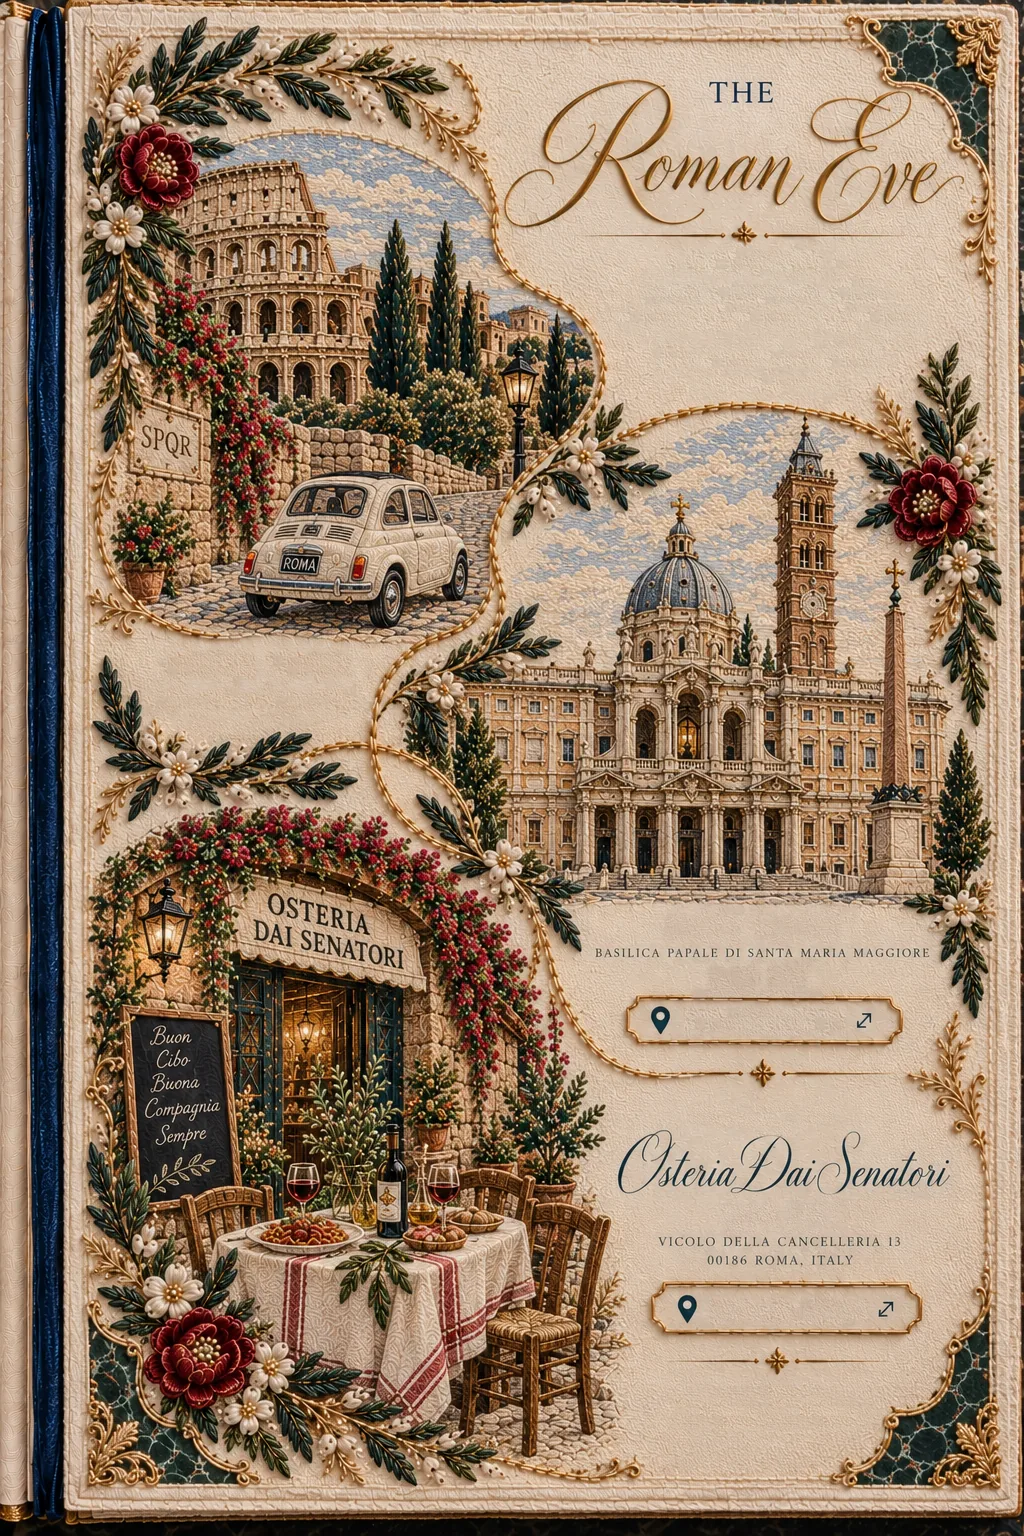
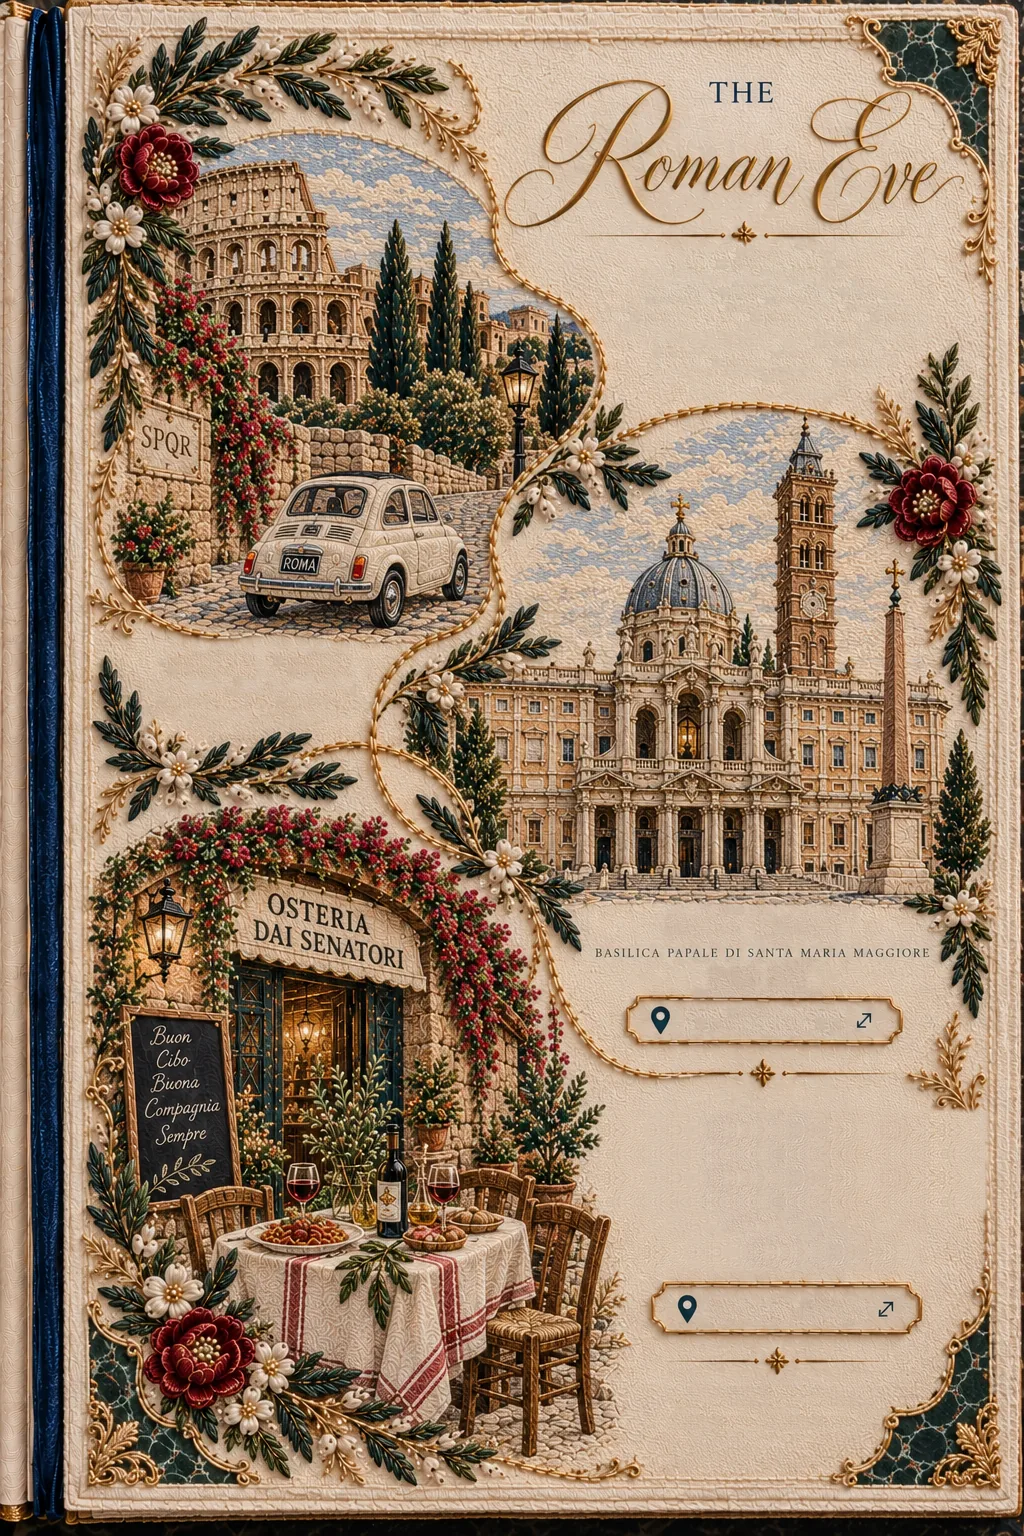
Thursday dinner moves to Est Artigiani del Gusto
The venue name and address on the Roman Eve page are now live text rather than
baked into the artwork, so a change of restaurant no longer needs new art. The
RSVP list entry and the map link follow. The name on the painted shopfront sign
is part of the illustration and still reads the old venue.

Changed region(s): [[0.5938, 0.7188, 0.9688, 0.7812]]

diff --git a/invite/index.html b/invite/index.html
@@ -229,6 +229,9 @@ body.locked{height:100svh;overflow:hidden}
 .ov.p05 .time1{top:62.8%;left:73.8%;font-size:calc(var(--fw)*.0264);letter-spacing:.1em;padding-left:.1em;color:#242a28}
 .ov.p05 .btn1{top:65.7%;left:75.3%;font-size:calc(var(--fw)*.0195);color:#32332f}
 .ov.p05 .dinner{top:71.8%;left:74.5%;font-size:calc(var(--fw)*.0264);letter-spacing:.1em;padding-left:.1em}
+/* The restaurant and its address are live text, so the venue can change without new artwork. */
+.ov.p05 .venue{top:73.0%;left:76.9%;font-family:'Pinyon Script',cursive;font-style:normal;font-weight:400;font-size:calc(var(--fw)*.0425);color:#22323a}
+.ov.p05 .addr{top:80.3%;left:76.1%;font-size:calc(var(--fw)*.0127);letter-spacing:.14em;padding-left:.14em;line-height:1.55;color:#242a28}
 .ov.p05 .time2{top:78.1%;left:75.5%;font-size:calc(var(--fw)*.0264);letter-spacing:.1em;padding-left:.1em;color:#242a28}
 .ov.p05 .btn2{top:84.6%;left:77.1%;font-size:calc(var(--fw)*.0195);color:#32332f}
 .ov.p05 .good{top:90.75%;left:73.8%;font-size:calc(var(--fw)*.0156);letter-spacing:.16em;padding-left:.16em;line-height:1.36;color:#45423b}
@@ -346,13 +349,15 @@ body.locked{height:100svh;overflow:hidden}
       <p class="time1 caps c" data-i18n="p05_time1"></p>
       <p class="btn1 ital c" data-i18n="p05_btn"></p>
       <p class="dinner caps c" data-i18n="p05_dinner"></p>
+      <p class="venue script c" data-i18n="p05_venue"></p>
       <p class="time2 caps c" data-i18n="p05_time2"></p>
+      <p class="addr caps c" data-i18n="p05_addr"></p>
       <p class="btn2 ital c" data-i18n="p05_btn"></p>
       <p class="good caps c" data-i18n="p05_good"></p>
     </div>
     <!-- /ov 05 -->
     <a class="link-hotspot map-1" href="https://maps.app.goo.gl/5i2CARwSHZ445yEn6" target="_blank" rel="noopener noreferrer" aria-label="Open Santa Maria Maggiore in Google Maps"></a>
-    <a class="link-hotspot map-2" href="https://maps.app.goo.gl/oEKPdQQKgD1suG2bA" target="_blank" rel="noopener noreferrer" aria-label="Open Osteria Dai Senatori in Google Maps"></a>
+    <a class="link-hotspot map-2" href="https://maps.app.goo.gl/bwpjdYzkavR4TtcH8" target="_blank" rel="noopener noreferrer" aria-label="Open Est Artigiani del Gusto in Google Maps"></a>
   </div></section>
   <section class="section"><div class="section-frame">
     <img src="06-countdown-blank.webp" alt="The Countdown Begins">
@@ -658,7 +663,7 @@ const I18N={
   en:{
     untie:'Untie our story', tap:'Tap the bow', modalTitle:'Kindly RSVP', modalSub:'Please choose your language', toggle:'Español', toggleAria:'Cambiar a español',
     /*p02*/ p02_title:"The Wedding of", p02_city:"Rome, Italy", p02_quote:"Two paths, two worlds,<br>one beautiful answer<br>to prayer.",
-    /*p05*/ p05_date:"1 October", p05_three:"Three beautiful ways<br>to experience Rome together.", p05_optional:"These experiences are optional,<br>except where noted.", p05_rome:"Rome Tour", p05_romesub:"An optional experience.", p05_holy:"Holy Hour", p05_time1:"5:00 PM", p05_btn:"View on Google Maps", p05_dinner:"Dinner at", p05_time2:"6:00 PM", p05_good:"Good food<br>brings people closer",
+    /*p05*/ p05_date:"1 October", p05_three:"Three beautiful ways<br>to experience Rome together.", p05_optional:"These experiences are optional,<br>except where noted.", p05_rome:"Rome Tour", p05_romesub:"An optional experience.", p05_holy:"Holy Hour", p05_time1:"5:00 PM", p05_btn:"View on Google Maps", p05_dinner:"Dinner at", p05_venue:"Est Artigiani del Gusto", p05_addr:"Vicolo della Cancelleria, 11<br>00186 Roma RM, Italy", p05_time2:"6:00 PM", p05_good:"Good food<br>brings people closer",
     /*p06*/ p06_quote:"Two paths, two worlds,<br>one beautiful answer to prayer.", p06_days:"Days", p06_hours:"Hours", p06_minutes:"Minutes", p06_seconds:"Seconds",
     /*p07*/ p07_date:"02 October 2026", p07_t1:"11:00 AM", p07_h1:"The Ceremony", p07_t2:"1:30 PM", p07_h2:"Wedding Lunch", p07_t3:"6:00 PM – 11:00 PM", p07_h3:"The Reception",
     /*p08*/ p08_sub1:"Optional experiences", p08_sub2:"after the wedding", p08_d1:"03 October", p08_t1:"Tuscany", p08_l1:"Wine Tasting · Countryside &amp; Lunch", p08_d2:"04 October", p08_t2:"Assisi", p08_l2a:"Pilgrimage", p08_l2b:"Feast of St. Francis", p08_d3:"05 – 06 October", p08_t3:"Positano &amp; Capri", p08_l3:"Coastal Escape",
@@ -668,7 +673,7 @@ const I18N={
     /*p04*/ p04_exp:"Experiences", p04_two:"Two places, one journey,<br>both close to our hearts.", p04_opt:"These experiences<br>are optional, and we would<br>be delighted if you can<br>join us.", p04_d29:"29 September", p04_cook:"Cooking Class", p04_d30:"30 September", p04_monte:"Monte Sant’Angelo<br>&amp; San Giovanni Rotondo", p04_faith:"Faith,<br>Culture,<br>Good Food<br>and Beautiful<br>Company.", p04_journey:"A journey of places<br>that inspire us.",
     kindly:'Kindly', welcome:'We would be delighted<br>to celebrate with you.',
     h1:'Wedding Celebrations', sub:'We look forward to sharing these<br>special moments with you.',
-    ev1:'Holy Hour<span class="date">1 October</span>', ev2:'Dinner at Osteria Dai Senatori<span class="date">1 October</span>',
+    ev1:'Holy Hour<span class="date">1 October</span>', ev2:'Dinner at Est Artigiani del Gusto<span class="date">1 October</span>',
     ev3:'The Ceremony<span class="date">2 October</span>', ev4:'Wedding Lunch<span class="date">2 October</span>', ev5:'The Reception<span class="date">2 October</span>',
     h2:'Optional Experiences', para:'If you would like to join us for any of these additional experiences, please select your preferences when completing your RSVP.',
     op1:'Cooking Class <span class="date">· Tue 29th</span>', op2:'Monte Sant’Angelo &amp; San Giovanni Rotondo <span class="date">· Wed 30th</span>',
@@ -679,7 +684,7 @@ const I18N={
   es:{
     untie:'Desata nuestra historia', tap:'Toca el lazo', modalTitle:'Confirmar asistencia', modalSub:'Elige tu idioma', toggle:'English', toggleAria:'Switch to English',
     /*p02*/ p02_title:"La boda de", p02_city:"Roma, Italia", p02_quote:"Dos caminos, dos mundos,<br>una hermosa respuesta<br>a la oración.",
-    /*p05*/ p05_date:"1 de octubre", p05_three:"Tres maneras preciosas<br>de vivir Roma juntos.", p05_optional:"Estas experiencias son opcionales,<br>salvo donde se indique.", p05_rome:"Tour por Roma", p05_romesub:"Una experiencia opcional.", p05_holy:"Hora Santa", p05_time1:"17:00", p05_btn:"Ver en Google Maps", p05_dinner:"Cena en", p05_time2:"18:00", p05_good:"La buena comida<br>une a las personas",
+    /*p05*/ p05_date:"1 de octubre", p05_three:"Tres maneras preciosas<br>de vivir Roma juntos.", p05_optional:"Estas experiencias son opcionales,<br>salvo donde se indique.", p05_rome:"Tour por Roma", p05_romesub:"Una experiencia opcional.", p05_holy:"Hora Santa", p05_time1:"17:00", p05_btn:"Ver en Google Maps", p05_dinner:"Cena en", p05_venue:"Est Artigiani del Gusto", p05_addr:"Vicolo della Cancelleria, 11<br>00186 Roma RM, Italia", p05_time2:"18:00", p05_good:"La buena comida<br>une a las personas",
     /*p06*/ p06_quote:"Dos caminos, dos mundos,<br>una hermosa respuesta a la oración.", p06_days:"Días", p06_hours:"Horas", p06_minutes:"Minutos", p06_seconds:"Segundos",
     /*p07*/ p07_date:"2 de octubre de 2026", p07_t1:"11:00", p07_h1:"La ceremonia", p07_t2:"13:30", p07_h2:"Almuerzo de boda", p07_t3:"18:00 – 23:00", p07_h3:"La recepción",
     /*p08*/ p08_sub1:"Experiencias opcionales", p08_sub2:"después de la boda", p08_d1:"3 de octubre", p08_t1:"Toscana", p08_l1:"Cata de vinos · Campo y almuerzo", p08_d2:"4 de octubre", p08_t2:"Asís", p08_l2a:"Peregrinación", p08_l2b:"Fiesta de San Francisco", p08_d3:"5 – 6 de octubre", p08_t3:"Positano y Capri", p08_l3:"Escapada a la costa",
@@ -689,7 +694,7 @@ const I18N={
     /*p04*/ p04_exp:"Experiencias", p04_two:"Dos lugares, un viaje,<br>ambos cerca de nuestro corazón.", p04_opt:"Estas experiencias<br>son opcionales, y nos<br>encantaría que pudieran<br>acompañarnos.", p04_d29:"29 de septiembre", p04_cook:"Clase de cocina", p04_d30:"30 de septiembre", p04_monte:"Monte Sant’Angelo<br>y San Giovanni Rotondo", p04_faith:"Fe,<br>Cultura,<br>Buena Comida<br>y Hermosa<br>Compañía.", p04_journey:"Un viaje por lugares<br>que nos inspiran.",
     kindly:'Por favor', welcome:'Nos encantaría<br>celebrar con ustedes.',
     h1:'Celebraciones de la boda', sub:'Esperamos compartir estos<br>momentos tan especiales con ustedes.',
-    ev1:'Hora Santa<span class="date">1 de octubre</span>', ev2:'Cena en la Osteria Dai Senatori<span class="date">1 de octubre</span>',
+    ev1:'Hora Santa<span class="date">1 de octubre</span>', ev2:'Cena en Est Artigiani del Gusto<span class="date">1 de octubre</span>',
     ev3:'La ceremonia<span class="date">2 de octubre</span>', ev4:'Almuerzo de boda<span class="date">2 de octubre</span>', ev5:'La recepción<span class="date">2 de octubre</span>',
     h2:'Experiencias opcionales', para:'Si desean acompañarnos en alguna de estas experiencias adicionales, indiquen sus preferencias al confirmar su asistencia.',
     op1:'Clase de cocina <span class="date">· martes 29</span>', op2:'Monte Sant’Angelo y San Giovanni Rotondo <span class="date">· miércoles 30</span>',
